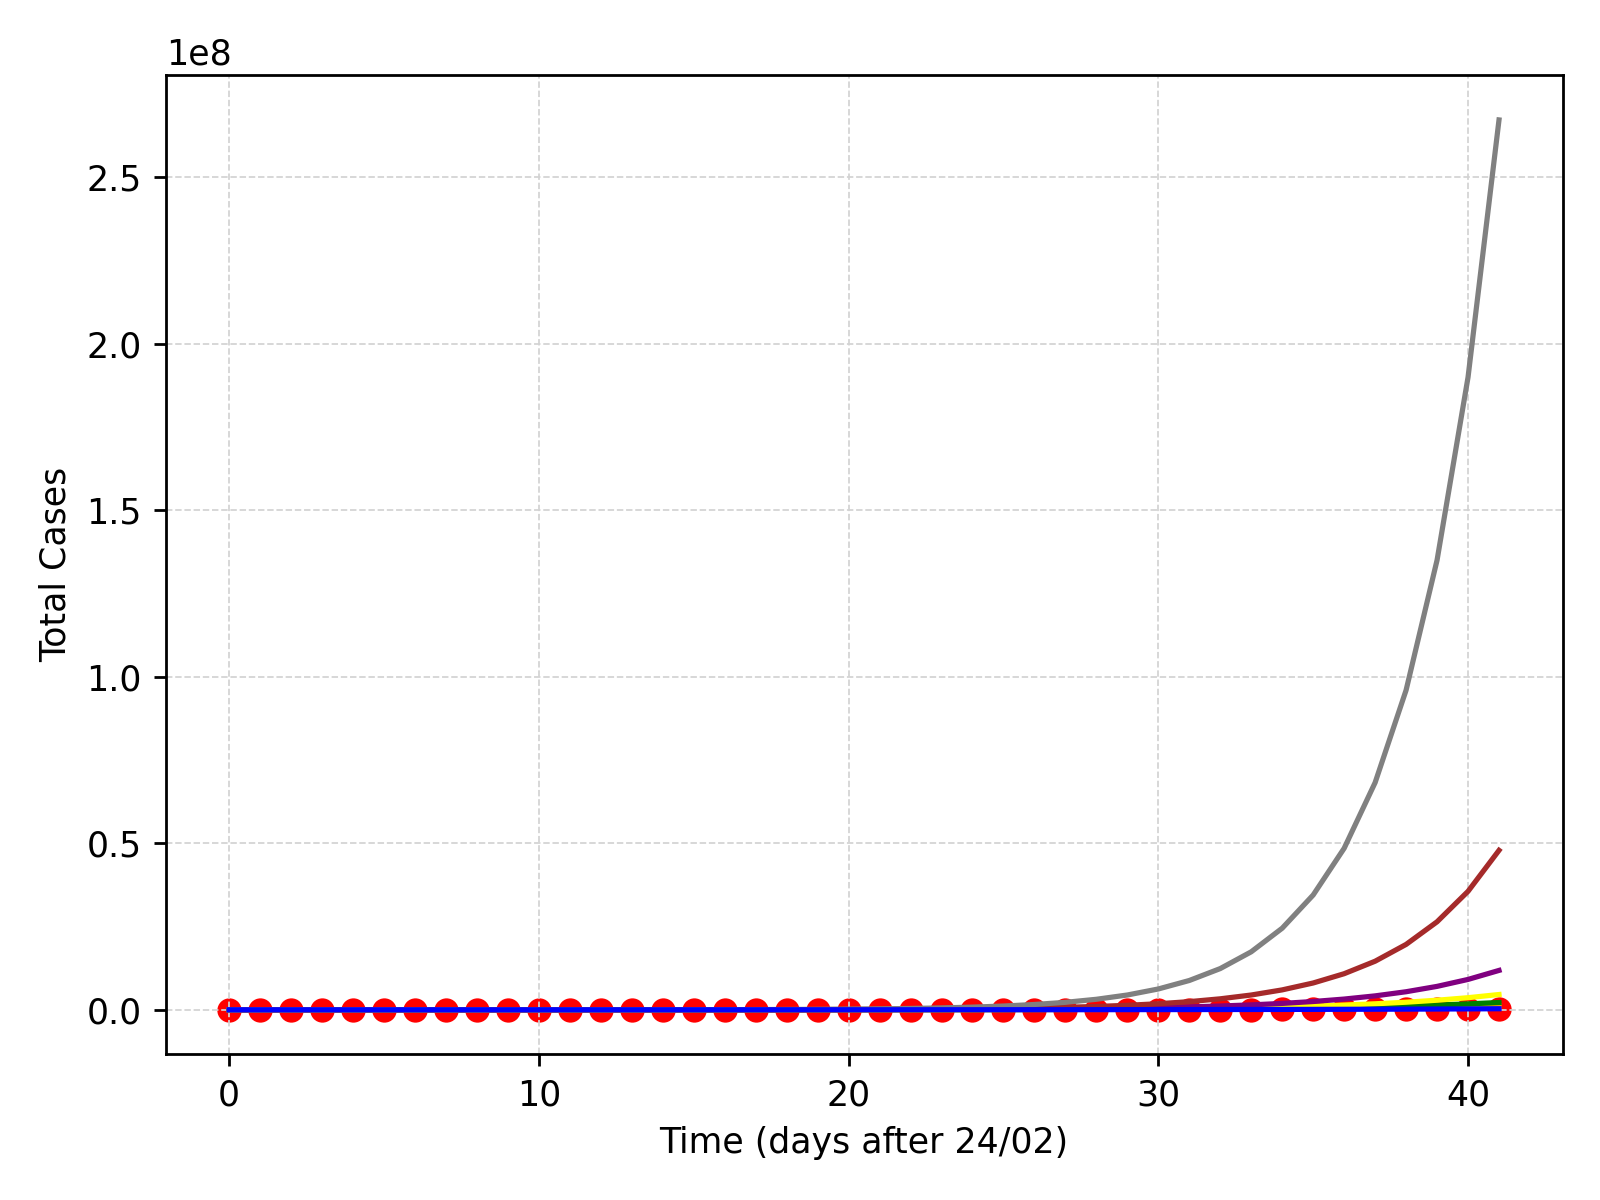
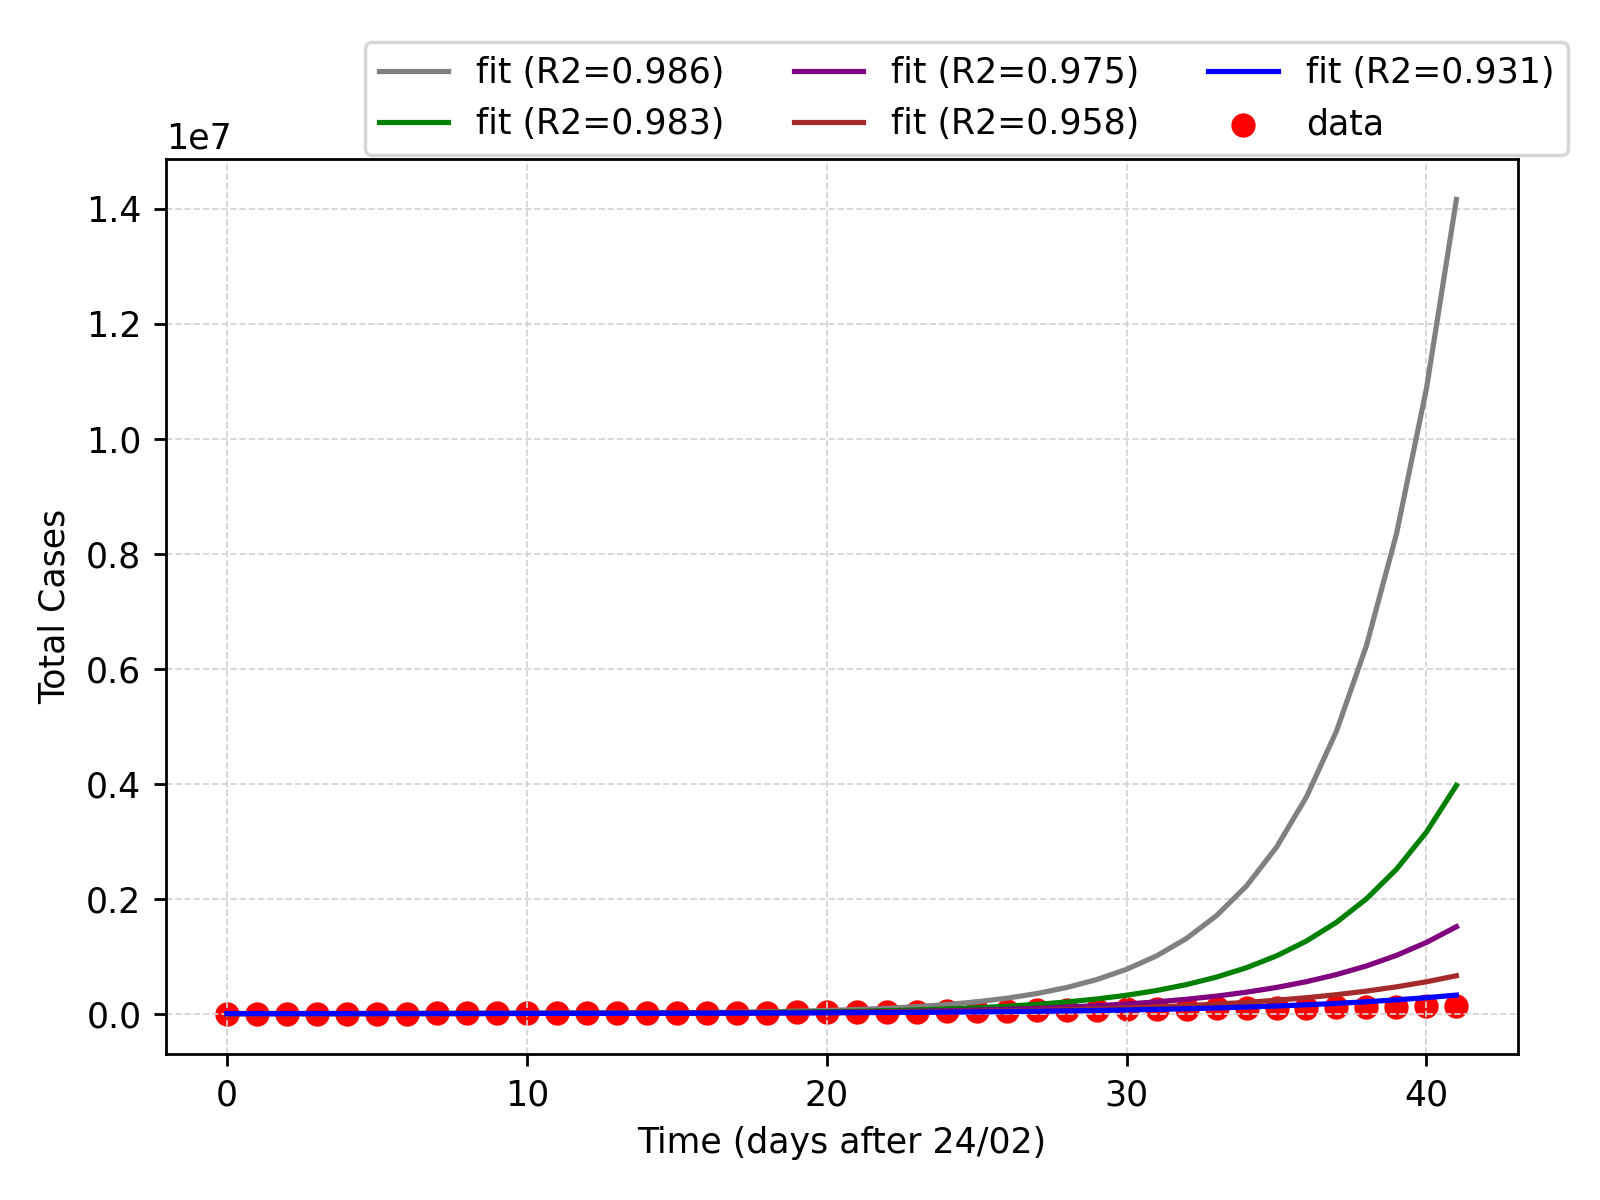
corrected new analysis

diff --git a/new_fit_2.py b/new_fit_2.py
@@ -22,12 +22,10 @@ regressor2 = LinearRegression()
 regressor3 = LinearRegression()
 regressor4 = LinearRegression()
 regressor5 = LinearRegression()
-regressor6 = LinearRegression()
-regressor7 = LinearRegression()
 
-regressors = (regressor1,regressor2,regressor3,regressor4,regressor5,regressor6,regressor7)
+regressors = (regressor1,regressor2,regressor3,regressor4,regressor5)
 
-map = {1:30, 2:25, 3:20, 4:15, 5:10, 6:5, 7:None}
+map = {1:-28, 2:-21, 3:-14, 4:-7, 5:None}
 
 log_y_pred = []
 scores = []
@@ -38,11 +36,11 @@ for reg, i in zip(regressors, range(1, len(regressors)+1)):
     yy = log_y[:map[i]]
     reg.fit(xx,yy)
     log_y_pred.append(reg.predict(x))
-    scores.append(reg.score(x, log_y))  # R2 score
+    scores.append(reg.score(xx, yy))  # R2 score
     growths.append(reg.coef_[0]) # coefficients reg.coef_ is an array in general, when fitting multidimensional X values
     n0s.append(reg.intercept_)  # intercepts
 
-colors = ('orange', 'green', 'yellow', 'purple', 'brown', 'grey', 'blue')
+colors = ('grey', 'green', 'purple', 'brown', 'blue')
 
 #plot of fit vs data
 plt.scatter(x,log_y,color = 'red')
@@ -51,7 +49,14 @@ for i in range(len(regressors)):
 #plt.title('Epidemic curve vs Fit')
 plt.xlabel('Time (days after 24/02)')
 plt.ylabel('Log of Total Cases')
-#plt.legend((['fit (R2={:.3f})'.format(score) for score in scores], 'log data'),loc='upper right', bbox_to_anchor=(1.05, 1.15), ncol=4)
+plt.legend((
+'fit (R2={:.3f})'.format(scores[0]),
+'fit (R2={:.3f})'.format(scores[1]),
+'fit (R2={:.3f})'.format(scores[2]),
+'fit (R2={:.3f})'.format(scores[3]),
+'fit (R2={:.3f})'.format(scores[4]),
+'log data'),
+loc='upper right', bbox_to_anchor=(1.05, 1.15), ncol=3)
 plt.grid(color='lightgray', linestyle='--', linewidth=0.5)
 plt.savefig('./FIT/fit_1_time.png', dpi=250)
 plt.tight_layout()
@@ -64,7 +69,14 @@ for i in range(len(regressors)):
 #plt.title('Epidemic curve vs Fit')
 plt.xlabel('Time (days after 24/02)')
 plt.ylabel('Total Cases')
-#plt.legend((['fit (R2={:.3f})'.format(score) for score in scores], 'data'),loc='upper right', bbox_to_anchor=(1.05, 1.15), ncol=4)
+plt.legend((
+'fit (R2={:.3f})'.format(scores[0]),
+'fit (R2={:.3f})'.format(scores[1]),
+'fit (R2={:.3f})'.format(scores[2]),
+'fit (R2={:.3f})'.format(scores[3]),
+'fit (R2={:.3f})'.format(scores[4]),
+'data'),
+loc='upper right', bbox_to_anchor=(1.05, 1.15), ncol=3)
 plt.grid(color='lightgray', linestyle='--', linewidth=0.5)
 plt.tight_layout()
 plt.savefig('./FIT/fit_2_time.png', dpi=250)
